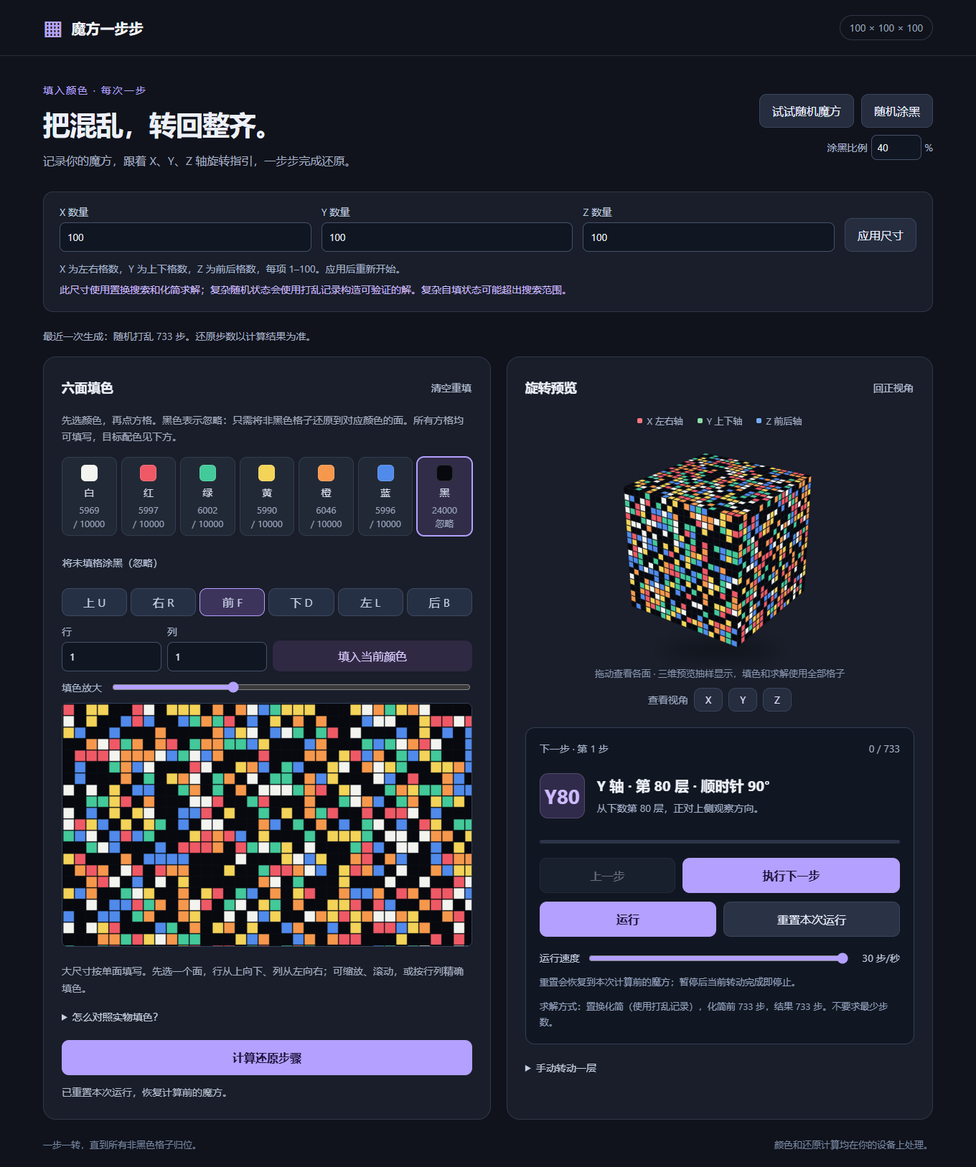
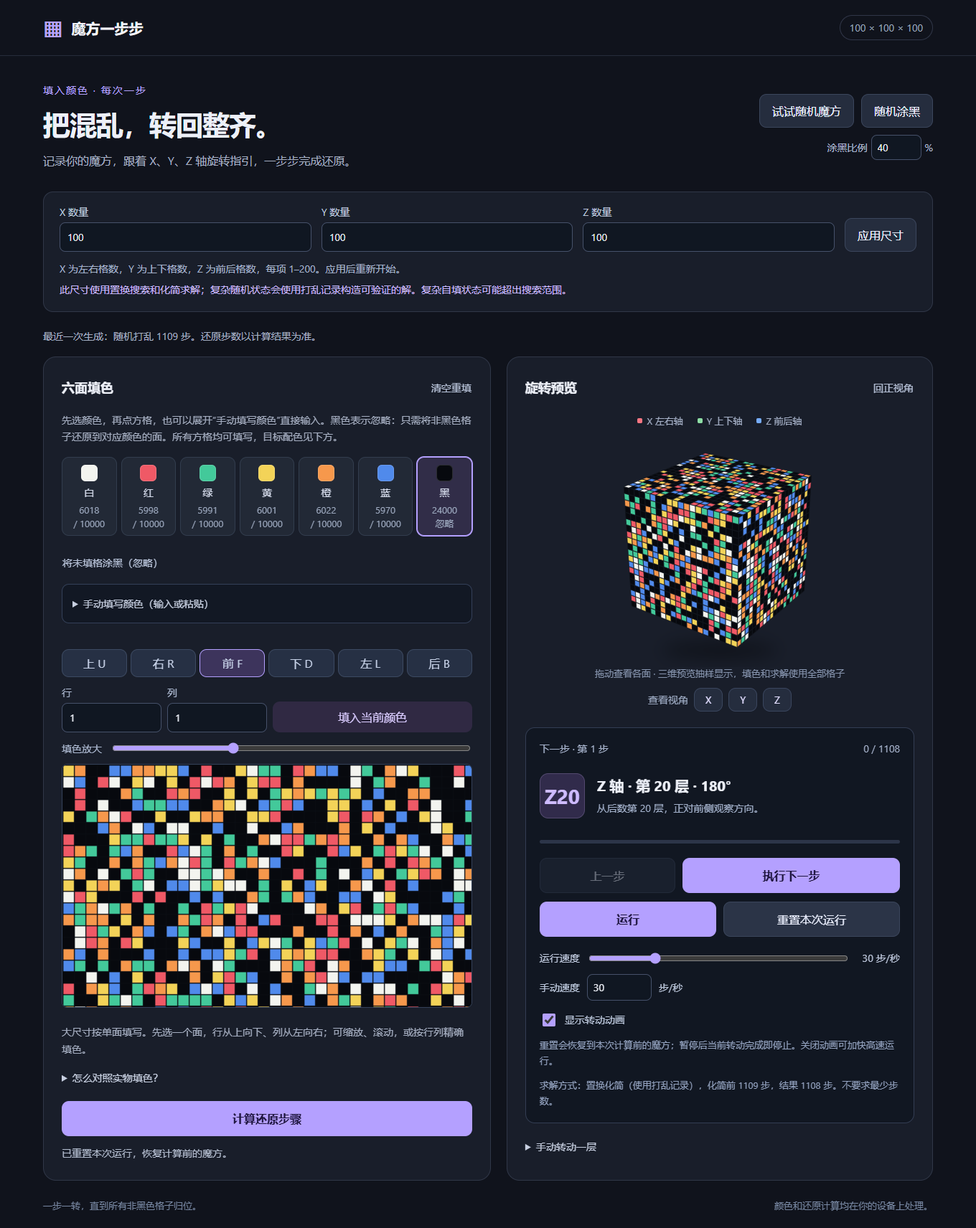
Update Site source

diff --git a/dist/app.js b/dist/app.js
@@ -10,6 +10,7 @@
   let view={x:-25,y:-35,z:0,scale:1};
   const $=id=>document.getElementById(id),cubeEl=$('cube'),net=$('net');
   let activeTurn=null;
+  let faceDraftDirty=false;
   $('animation-enabled').checked=!matchMedia('(prefers-reduced-motion: reduce)').matches;
   const status=(text,kind='')=>{$('status').textContent=text;$('status').className='status '+kind;};
   const faceColor=face=>centers[faces.indexOf(face)];
@@ -23,9 +24,9 @@
       if(v.centers?.length===6&&new Set(v.centers).size===6&&v.centers.every(c=>colors[c]&&c!=='k')&&v.stickers?.length===candidate.cells.length&&v.stickers.every(c=>c===null||colors[c])&&candidate.cells.every((c,i)=>!c.locked||v.stickers[i]===v.centers[faces.indexOf(c.face)])){
         model=candidate;centers=v.centers;stickers=v.stickers;history=null;
         if(Array.isArray(v.history)&&model.knownSolution(encoded(),v.history)!==null)history=v.history;
-        if(Number.isInteger(v.scrambleCount)&&v.scrambleCount>=0&&v.scrambleCount<=2000)scrambleCount=v.scrambleCount;
+        if(Number.isInteger(v.scrambleCount)&&v.scrambleCount>=0&&v.scrambleCount<=10000)scrambleCount=v.scrambleCount;
         if(Number.isInteger(v.blackPercent)&&v.blackPercent>=0&&v.blackPercent<=100)$('black-percent').value=v.blackPercent;
-        if(Number.isFinite(v.speed)&&v.speed>=.5&&v.speed<=30)$('run-speed').value=v.speed;
+        if(Number.isFinite(v.speed)&&v.speed>=.5&&v.speed<=120)$('run-speed').value=v.speed;
         if(typeof v.animationEnabled==='boolean')$('animation-enabled').checked=v.animationEnabled;
       }
     }
@@ -38,7 +39,7 @@
     const m=model.normalize(move),last=history[history.length-1];
     if(last&&last.axis===m.axis&&last.layer===m.layer){const turns=(last.turns+m.turns+8)%4;history.pop();if(turns)history.push({...m,turns:turns===3?-1:turns});}
     else history.push(m);
-    if(history.length>2000)history=null;
+    if(history.length>10000)history=null;
   }
   function renderPalette(){
     $('palette').replaceChildren();
@@ -93,13 +94,15 @@
     const complete=hasPlan&&cursor===moves.length;
     $('step-label').textContent=hasPlan?(complete?'还原完成':`下一步 · 第 ${cursor+1} 步`):'等待计算';$('step-count').textContent=`${cursor} / ${moves.length}`;
     const info=hasPlan&&!complete?moveInfo(moves[cursor]):null;$('move-token').textContent=complete?'✓':info?.token||'—';
+    $('move-token').style.fontSize=(info?.token?.length||0)>=4?'20px':'28px';
     $('instruction-title').textContent=info?.title||(complete?(stickers.includes('k')?'非黑色格子已归位':'六面已经归位'):'准备好你的魔方');
     $('instruction-detail').textContent=info?.detail||(complete?(stickers.includes('k')?'黑色格子不参与完成判断。你可以返回上一步复习。':'已完成全部步骤。你可以返回上一步复习。'):'填写六面颜色后，点击“计算还原步骤”。');
     const percent=hasPlan?(moves.length?cursor/moves.length*100:100):0;$('progress-fill').style.width=percent+'%';document.querySelector('.progress').setAttribute('aria-valuenow',String(Math.round(percent)));
     $('prev').disabled=!hasPlan||cursor===0||busy||animating||playing;$('next').disabled=!hasPlan||complete||busy||animating||playing;$('next').textContent=complete?'已完成还原':animating?'正在转动…':'执行下一步';
     $('run').textContent=playing?'暂停':'运行';$('run').disabled=busy||!hasPlan||complete||(!playing&&animating);$('reset-run').disabled=!planStart||busy;
     $('speed-value').textContent=$('run-speed').value+' 步/秒';
-    for(const id of ['solve','demo','random-black','black-percent','clear','mask-empty','apply-size','size-x','size-y','size-z','manual-apply','manual-axis','manual-layer','manual-turn'])$(id).disabled=busy||animating||playing;
+    if(document.activeElement!==$('run-speed-number'))$('run-speed-number').value=$('run-speed').value;
+    for(const id of ['solve','demo','random-black','black-percent','clear','mask-empty','apply-size','size-x','size-y','size-z','manual-apply','manual-axis','manual-layer','manual-turn','input-face','face-input','read-face','apply-face'])$(id).disabled=busy||animating||playing;
     $('solve').textContent=busy?'正在计算…':'计算还原步骤';document.querySelectorAll('#centers select').forEach(el=>el.disabled=busy||animating||playing);
   }
   function renderAll(){renderPalette();renderNet();renderCube();updateSteps();save();}
@@ -122,8 +125,26 @@
     $('solver-scope').textContent=model.classic||model.pocket?'二阶、三阶支持任意合法填色求解。':'此尺寸使用置换搜索和化简求解；复杂随机状态会使用打乱记录构造可验证的解。复杂自填状态可能超出搜索范围。';
     $('preview-hint').textContent=isLarge()?'拖动查看各面 · 三维预览抽样显示，填色和求解使用全部格子':'拖动查看各面 · 滚轮缩放';
     document.querySelector('.orientation').textContent=isLarge()?'大尺寸按单面填写。先选一个面，行从上向下、列从左向右；可缩放、滚动，或按行列精确填色。':'展开方向：前面居中，上、下分别在前面的上方和下方；背面在右面右侧。按展开图方向填写。';
-    $('paint-hint').textContent='先选颜色，再点方格。黑色表示忽略：只需将非黑色格子还原到对应颜色的面。'+(model.classic?'中心格固定。':'所有方格均可填写，目标配色见下方。');renderManual();
+    $('paint-hint').textContent='先选颜色，再点方格，也可以展开“手动填写颜色”直接输入。黑色表示忽略：只需将非黑色格子还原到对应颜色的面。'+(model.classic?'中心格固定。':'所有方格均可填写，目标配色见下方。');renderManual();readFace();
   }
+  function readFace(){
+    const face=$('input-face').value,[rows,cols]=model.shapes[face],offset=model.offsets[face];
+    $('face-input-shape').textContent=`${names[face]}面：${rows} 行 × ${cols} 列，共 ${rows*cols} 格。`;
+    $('face-input').value=ColorInput.formatFace(stickers.slice(offset,offset+rows*cols),cols);$('face-input-status').textContent='';faceDraftDirty=false;
+  }
+  $('input-face').onchange=readFace;$('read-face').onclick=readFace;
+  $('face-input').oninput=()=>faceDraftDirty=true;
+  $('manual-colors').ontoggle=()=>{if($('manual-colors').open&&!faceDraftDirty)readFace();};
+  $('apply-face').onclick=()=>{
+    const face=$('input-face').value,[rows,cols]=model.shapes[face],offset=model.offsets[face];
+    let entered;try{
+      entered=ColorInput.parseFace($('face-input').value,rows*cols);
+      if(model.classic&&entered[4]!==faceColor(face))throw Error(`${names[face]}面中心必须是${colors[faceColor(face)].name}色。`);
+    }catch(error){$('face-input-status').textContent=error.message;$('face-input-status').className='error';return;}
+    for(let j=0;j<entered.length;j++)stickers[offset+j]=entered[j];
+    retainHistory();invalidate();faceDraftDirty=false;if(isLarge())largeView.face=face;renderAll();
+    $('face-input-status').textContent=`${names[face]}面已应用 ${entered.length} 格。`;$('face-input-status').className='success';status('手动颜色已应用，可以继续填写其他面或计算还原步骤。');
+  };
   $('apply-size').onclick=()=>{
     let next;try{next=new CuboidModel(['x','y','z'].map(a=>Number($('size-'+a).value)));}catch(e){status(e.message,'error');return;}
     model=next;history=[];scrambleCount=null;fromPattern(model.solved);invalidate();renderSize();renderAll();status(`已应用 ${model.dims.join(' × ')}，可以随机打乱或填写颜色。`);
@@ -131,7 +152,7 @@
   $('manual-axis').onchange=renderManual;
   function ensureWorker(){
     if(worker)return;
-    worker=new Worker('solver-worker.js?v=run1');worker.onmessage=({data})=>{
+    worker=new Worker('solver-worker.js?v=expand1');worker.onmessage=({data})=>{
       if(data.id!==job)return;if(data.kind==='progress'){status(data.message);return;}if(data.kind==='error'){workerError(data.message);return;}
       if(data.kind==='scramble'){
         fromPattern(data.state);history=data.moves;scrambleCount=data.moves.length;finishSolve();renderAll();status(`本次随机打乱 ${scrambleCount} 步。可以涂黑后计算还原步骤。`);return;
@@ -207,11 +228,28 @@
     if(playing){pauseRun();status('已暂停，当前转动完成后停止。');return;}
     if(busy||animating||!hasPlan||cursor>=moves.length)return;
     playing=true;const epoch=++playEpoch;renderAll();status('正在连续运行，可随时暂停或调整速度。');
-    while(playing&&epoch===playEpoch&&cursor<moves.length){const start=performance.now();await stepForward();if(playing&&epoch===playEpoch)await new Promise(resolve=>setTimeout(resolve,Math.max(0,1000/Number($('run-speed').value)-(performance.now()-start))));}
+    let nextStepAt=performance.now();
+    while(playing&&epoch===playEpoch&&cursor<moves.length){
+      const now=performance.now(),interval=1000/Number($('run-speed').value);
+      if(now<nextStepAt){await new Promise(resolve=>setTimeout(resolve,Math.min(16,nextStepAt-now)));continue;}
+      if($('animation-enabled').checked){await stepForward();nextStepAt=now+interval;}
+      else{
+        const count=Math.min(12,moves.length-cursor,Math.floor((now-nextStepAt)/interval)+1);let state=encoded();
+        for(let n=0;n<count;n++){const move=moves[cursor++];state=model.apply(state,move);appendHistory(move);}
+        fromPattern(state);nextStepAt+=count*interval;if(nextStepAt<now-250)nextStepAt=now-250;
+        if(cursor===moves.length){playing=false;playEpoch++;status(stickers.includes('k')?'还原完成！所有非黑色格子都已归位，黑色格子忽略。':'还原完成！六个面都已同色。','success');}
+        renderAll();await new Promise(resolve=>setTimeout(resolve,0));
+      }
+    }
     if(epoch===playEpoch){playing=false;renderAll();}
   };
   $('reset-run').onclick=()=>{if(!planStart)return;pauseRun();if(animating){resetPending=true;status('当前转动完成后重置本次运行。');}else restoreRun();};
-  $('run-speed').oninput=()=>{$('speed-value').textContent=$('run-speed').value+' 步/秒';save();};
+  $('run-speed').oninput=()=>{$('speed-value').textContent=$('run-speed').value+' 步/秒';$('run-speed-number').value=$('run-speed').value;save();};
+  $('run-speed-number').onchange=()=>{
+    const value=Number($('run-speed-number').value);
+    if(!Number.isFinite(value)||value<.5||value>120){$('run-speed-number').value=$('run-speed').value;status('速度必须是 0.5 到 120 步/秒。','error');return;}
+    $('run-speed').value=Math.round(value*2)/2;$('run-speed').dispatchEvent(new Event('input'));
+  };
   $('animation-enabled').onchange=save;
   $('manual-apply').onclick=async()=>{
     try{model.classic?validatePattern(encoded(),Cube):model.validate(encoded());}catch(e){status(e.message,'error');return;}

diff --git a/dist/index.html b/dist/index.html
@@ -6,18 +6,19 @@
   <meta name="theme-color" content="#10131c">
   <meta name="description" content="设置 X、Y、Z 方向格数，随机魔方和随机涂黑，跟随每一步旋转还原非黑色格子。">
   <title>魔方一步步 · 多尺寸魔方</title>
-  <link rel="stylesheet" href="style.css?v=motion1">
+  <link rel="stylesheet" href="style.css?v=expand1">
   <script src="vendor/cube.js" defer></script>
   <script src="core.js?v=black1" defer></script>
-  <script src="cuboid.js?v=run1" defer></script>
+  <script src="cuboid.js?v=expand1" defer></script>
   <script src="large-view.js?v=motion1" defer></script>
-  <script src="app.js?v=motion1" defer></script>
+  <script src="color-input.js?v=expand1" defer></script>
+  <script src="app.js?v=expand1" defer></script>
 </head>
 <body>
   <header class="topbar"><a class="brand" href="./"><span class="brand-mark">▦</span>魔方一步步</a><span id="size-tag" class="tag">3 × 3 × 3</span></header>
   <main>
     <section class="intro"><div><p class="eyebrow">填入颜色 · 每次一步</p><h1>把混乱，转回整齐。</h1><p class="subtitle">记录你的魔方，跟着 X、Y、Z 轴旋转指引，一步步完成还原。</p></div><div class="random-actions"><button id="demo" class="secondary">试试随机魔方</button><button id="random-black" class="secondary">随机涂黑</button><label class="black-ratio">涂黑比例 <input id="black-percent" type="number" min="0" max="100" step="1" value="40" aria-label="随机涂黑百分比"> %</label></div></section>
-    <section class="size-panel" aria-label="魔方尺寸设置"><div class="size-fields"><label>X 数量<input id="size-x" type="number" min="1" max="100" step="1" value="3"></label><label>Y 数量<input id="size-y" type="number" min="1" max="100" step="1" value="3"></label><label>Z 数量<input id="size-z" type="number" min="1" max="100" step="1" value="3"></label><button id="apply-size" class="secondary">应用尺寸</button></div><p id="size-hint">X 为左右格数，Y 为上下格数，Z 为前后格数，每项 1–100。应用后重新开始。</p><p id="solver-scope">三阶支持任意合法填色求解。</p></section>
+    <section class="size-panel" aria-label="魔方尺寸设置"><div class="size-fields"><label>X 数量<input id="size-x" type="number" min="1" max="200" step="1" value="3"></label><label>Y 数量<input id="size-y" type="number" min="1" max="200" step="1" value="3"></label><label>Z 数量<input id="size-z" type="number" min="1" max="200" step="1" value="3"></label><button id="apply-size" class="secondary">应用尺寸</button></div><p id="size-hint">X 为左右格数，Y 为上下格数，Z 为前后格数，每项 1–200。应用后重新开始。</p><p id="solver-scope">三阶支持任意合法填色求解。</p></section>
     <p id="scramble-info" class="hint" role="status">每次随机生成时，转法和打乱步数都会随机。</p>
     <div class="workspace">
       <section class="panel input-panel" aria-labelledby="input-title">
@@ -25,6 +26,7 @@
         <p id="paint-hint" class="hint">先选颜色，再点方格。黑色表示忽略：只需将非黑色格子还原到对应颜色的面。三阶中心格固定。</p>
         <div id="palette" class="palette" role="group" aria-label="选择画笔颜色"></div>
         <button id="mask-empty" class="text-button">将未填格涂黑（忽略）</button>
+        <details id="manual-colors" class="manual-colors"><summary>手动填写颜色（输入或粘贴）</summary><p>选一个面，按从上到下、从左到右填写。可用中文颜色，或 W 白、R 红、G 绿、Y 黄、O 橙、B 蓝、K 黑；空格和换行都可以。W9 表示连续 9 个白格，K9 表示 9 个忽略格，? 表示未填。</p><label>填写哪个面<select id="input-face" aria-label="手动填写的面"><option value="U">上 U</option><option value="R">右 R</option><option value="F" selected>前 F</option><option value="D">下 D</option><option value="L">左 L</option><option value="B">后 B</option></select></label><p id="face-input-shape" class="hint"></p><textarea id="face-input" rows="6" maxlength="500000" spellcheck="false" aria-label="手动填写面颜色" placeholder="例如：GGG 换行 GGG 换行 GGG，也可填写 G9"></textarea><div class="face-input-buttons"><button id="read-face" class="secondary">读取当前面</button><button id="apply-face" class="primary">应用到此面</button></div><p id="face-input-status" role="status" aria-live="polite"></p></details>
         <div class="net-scroll"><div id="net" class="net" aria-label="魔方六面展开图"></div></div>
         <p class="orientation">展开方向：前面居中，上、下分别在前面的上方和下方；背面在右面右侧。按展开图方向填写。</p>
         <details><summary>怎么对照实物填色？</summary><p>先选定上面 U 和前面 F，并保持这两个方向。左右面像书页一样向外展开，背面接在右面外侧。上面的下边、下面的上边都与前面相接。可拖动右侧模型核对各面的方向。</p><p>目标配色默认上白、下黄、前绿、后蓝、左橙、右红。可在下面调整。三阶中心格固定；其他尺寸以目标配色判断还原，所有方格均可填写。</p><div id="centers" class="centers"></div></details>
@@ -43,9 +45,10 @@
           <div class="progress" role="progressbar" aria-label="还原进度" aria-valuemin="0" aria-valuemax="100" aria-valuenow="0"><div id="progress-fill"></div></div>
           <div class="step-buttons"><button id="prev" class="secondary" disabled>上一步</button><button id="next" class="primary" disabled>执行下一步</button></div>
           <div class="run-buttons"><button id="run" class="primary" disabled>运行</button><button id="reset-run" class="secondary" disabled>重置本次运行</button></div>
-          <label class="speed-control">运行速度 <input id="run-speed" type="range" min="0.5" max="30" step="0.5" value="4" aria-label="运行速度，每秒步数"><output id="speed-value">4 步/秒</output></label>
+          <label class="speed-control">运行速度 <input id="run-speed" type="range" min="0.5" max="120" step="0.5" value="4" aria-label="运行速度，每秒步数"><output id="speed-value">4 步/秒</output></label>
+          <label class="speed-number-control">手动速度 <input id="run-speed-number" type="number" min="0.5" max="120" step="0.5" value="4" aria-label="手动运行速度">步/秒</label>
           <label class="animation-control"><input id="animation-enabled" type="checkbox" checked>显示转动动画</label>
-          <p class="run-help">重置会恢复到本次计算前的魔方；暂停后当前转动完成即停止。</p>
+          <p class="run-help">重置会恢复到本次计算前的魔方；暂停后当前转动完成即停止。关闭动画可加快高速运行。</p>
           <p id="solver-method" class="run-help" role="status"></p>
         </div>
         <details class="manual"><summary>手动转动一层</summary><p>每次转动后需要重新计算方案。非正方形截面仅允许 180°，以保持长方体尺寸。</p><div class="manual-controls"><label>轴<select id="manual-axis"><option>X</option><option>Y</option><option>Z</option></select></label><label>层<select id="manual-layer"><option value="1">正侧（右 / 上 / 前）</option><option value="-1">负侧（左 / 下 / 后）</option></select></label><label>方向<select id="manual-turn"><option value="">顺时针 90°</option><option value="'">逆时针 90°</option><option value="2">旋转 180°</option></select></label><button id="manual-apply" class="secondary">转动一层</button></div><p id="manual-hint">方向均为正对所转面的视角。X / Y / Z 视角按钮仅改变观看角度。</p></details>

diff --git a/dist/style.css b/dist/style.css
@@ -4,3 +4,5 @@
 .run-buttons{display:grid;grid-template-columns:1fr 1fr;gap:10px;margin-top:12px}.speed-control{display:grid;grid-template-columns:auto 1fr auto;align-items:center;gap:10px;margin-top:20px;color:#bfc9dd;font-size:14px}.speed-control input{width:100%;accent-color:#b4a0ff;min-width:0}.speed-control output{min-width:64px;text-align:right}.run-help{color:#93a2bf;font-size:13px;line-height:1.7;margin:12px 0 0}.large-net{width:100%}.face-tabs{display:grid;grid-template-columns:repeat(6,1fr);gap:5px;margin:12px 0}.face-tabs button{padding:8px 3px;color:#c7d2e8;background:#263044;border-color:#3c4a62}.face-tabs button[aria-pressed=true]{border-color:#b4a0ff;background:#3d345c}.large-fill-tools{display:grid;grid-template-columns:1fr 1fr 2fr;gap:8px;align-items:end;margin:12px 0}.large-fill-tools label,.fill-zoom{font-size:14px;color:#aebbd3}.large-fill-tools button{background:#302943;color:#d9cbff;padding:10px 5px;min-height:42px}.fill-zoom{display:flex;flex-direction:row;gap:12px;align-items:center;margin:12px 0}.fill-zoom input{flex:1;accent-color:#b4a0ff}.large-fill-scroll{height:340px;max-width:100%;overflow:auto;background:#0d111a;border:1px solid #344159;border-radius:8px}.large-fill-scroll canvas{display:block;cursor:crosshair;max-width:none}.large-net input{width:100%}@media(max-width:480px){.face-tabs{grid-template-columns:repeat(3,1fr)}.speed-control{grid-template-columns:auto 1fr}.speed-control output{grid-column:2}.run-buttons button{padding:12px 8px}}
 .paint-count.stack{display:flex;flex-direction:column;align-items:center;gap:2px}
 .animation-control{display:flex;flex-direction:row;gap:10px;align-items:center;margin-top:15px;font-size:14px;color:#bdc9dd}.animation-control input{accent-color:#b4a0ff;width:18px;height:18px}
+.manual-colors{margin:12px 0 18px;padding:14px;background:#121824;border:1px solid #344059;border-radius:10px}.manual-colors p{font-size:14px;line-height:1.8;color:#aab8d1}.manual-colors select{width:100%}.manual-colors textarea{box-sizing:border-box;width:100%;max-width:100%;resize:vertical;min-height:130px;padding:12px;border:1px solid #46516a;border-radius:8px;font-family:Consolas,monospace;font-size:16px;line-height:1.5;letter-spacing:1px;background:#0e1420;color:#e5edff;white-space:pre-wrap;overflow-wrap:anywhere}.manual-colors textarea:focus-visible{outline:3px solid #a8bdff;outline-offset:3px}.face-input-buttons{display:grid;grid-template-columns:1fr 1fr;gap:8px;margin-top:10px}.manual-colors #face-input-status.error{color:#ffaaaa}.manual-colors #face-input-status.success{color:#8bdfbe}.speed-number-control{display:flex;flex-direction:row;align-items:center;gap:10px;font-size:14px;color:#bdc9dd;margin-top:12px}.speed-number-control input{width:90px;padding:8px}
+.manual-colors textarea{white-space:pre;overflow-wrap:normal;overflow:auto}

diff --git a/dist/cuboid.js b/dist/cuboid.js
@@ -4,7 +4,7 @@
   function quarter(v,axis){const [x,y,z]=v;return axis==='X'?[x,z,-y]:axis==='Y'?[-z,y,x]:[y,-x,z];}
   class CuboidModel {
     constructor(dimensions=[3,3,3]){
-      if(!Array.isArray(dimensions)||dimensions.length!==3||dimensions.some(n=>!Number.isInteger(n)||n<1||n>100))throw Error('X、Y、Z 必须是 1 到 100 的整数。');
+      if(!Array.isArray(dimensions)||dimensions.length!==3||dimensions.some(n=>!Number.isInteger(n)||n<1||n>200))throw Error('X、Y、Z 必须是 1 到 200 的整数。');
       this.dims=[...dimensions];this.classic=dimensions.every(n=>n===3);this.pocket=dimensions.every(n=>n===2);
       const [X,Y,Z]=dimensions;this.shapes={U:[Z,X],R:[Y,Z],F:[Y,X],D:[Z,X],L:[Y,Z],B:[Y,X]};
       this.cells=[];this.offsets={};this.cache=new Map();this.sparseCache=new Map();
@@ -74,7 +74,7 @@
     }
     scramble(count,random=Math.random){
       if(count===undefined)count=this.randomScrambleLength(random);
-      if(!Number.isInteger(count)||count<0||count>2000)throw Error('打乱步数必须是 0 到 2000 的整数。');
+      if(!Number.isInteger(count)||count<0||count>10000)throw Error('打乱步数必须是 0 到 10000 的整数。');
       const possible=this.legalMoves(),moves=[];let state=this.solved,last='';
       for(let i=0;i<count;i++){
         const choices=possible.filter(m=>m.axis+':'+m.layer!==last),m=choices[Math.floor(random()*choices.length)];
@@ -83,7 +83,7 @@
       return {state,moves};
     }
     knownSolution(text,history){
-      if(!Array.isArray(history)||history.length>2000)return null;
+      if(!Array.isArray(history)||history.length>10000)return null;
       let known=this.solved;
       try{for(const move of history)known=this.apply(known,move);}catch{return null;}
       if([...text].some((c,i)=>c!=='*'&&c!==known[i]))return null;

diff --git a/dist/color-input.js b/dist/color-input.js
@@ -1,0 +1,23 @@
+(function(root){
+  const codes={W:'w',R:'r',G:'g',Y:'y',O:'o',B:'b',K:'k','白':'w','红':'r','绿':'g','黄':'y','橙':'o','蓝':'b','黑':'k','*':'k','?':null};
+  const output={w:'W',r:'R',g:'G',y:'Y',o:'O',b:'B',k:'K'};
+  function parseFace(text,expected){
+    const clean=text.toUpperCase().replace(/[\s,，;；|\/]/g,''),out=[];
+    if(!clean)throw Error('请填写该面的颜色。');
+    let i=0;
+    while(i<clean.length){
+      const code=clean[i++];if(!Object.hasOwn(codes,code))throw Error(`无法识别“${code}”。请使用 白红绿黄橙蓝黑 或 W/R/G/Y/O/B/K。`);
+      let digits='';while(i<clean.length&&/[0-9]/.test(clean[i]))digits+=clean[i++];
+      const count=digits?Number(digits):1;
+      if(!Number.isSafeInteger(count)||count<1||count>expected)throw Error(`重复数量必须是 1 到 ${expected} 的整数。`);
+      if(out.length+count>expected)throw Error(`这个面只需要 ${expected} 格，填写数量过多。`);
+      for(let n=0;n<count;n++)out.push(codes[code]);
+    }
+    if(out.length!==expected)throw Error(`这个面需要 ${expected} 格，目前填写了 ${out.length} 格。`);
+    return out;
+  }
+  function formatFace(stickers,cols){
+    const rows=[];for(let i=0;i<stickers.length;i+=cols)rows.push(stickers.slice(i,i+cols).map(c=>output[c]||'?').join(''));return rows.join('\n');
+  }
+  const api={parseFace,formatFace};if(typeof module!=='undefined')module.exports=api;else root.ColorInput=api;
+})(typeof self!=='undefined'?self:globalThis);

diff --git a/dist/solver-worker.js b/dist/solver-worker.js
@@ -1,5 +1,5 @@
 importScripts('vendor/cube.js', 'vendor/solve.js', 'core.js?v=black1');
-importScripts('cuboid.js?v=run1');
+importScripts('cuboid.js?v=expand1');
 let initialized=false;
 self.onmessage=event=>{
   const {text,id,dimensions=[3,3,3],history}=event.data;

diff --git a/README.md b/README.md
@@ -1,18 +1,22 @@
 # 魔方一步步
 
-多尺寸魔方填色和逐步还原工具。X、Y、Z 分别为左右、上下、前后方向格数，每项可填写 1–100，支持正方体和长方体。六面展开图和三维预览随尺寸变化。尺寸、填色、速度和随机打乱记录保存在当前浏览器。
+多尺寸魔方填色和逐步还原工具。X、Y、Z 分别为左右、上下、前后方向格数，每项可填写 1–200，支持正方体和长方体。六面展开图和三维预览随尺寸变化。尺寸、填色、速度和随机打乱记录保存在当前浏览器。
 
 “试试随机魔方”生成可还原状态；“随机涂黑”按指定百分比随机选取已填、可编辑的格子并涂黑。保留其他颜色和三阶固定中心，重复点击可能增加黑格。涂黑比例支持 0–100%。应用新尺寸会重新开始。
 
 随机打乱的长度也会随机：设最大边长为 n，长度在 max(12, 6n) 到 max(24, 12n) 之间随机取整数。七阶为 42–84 步，百阶为 600–1200 步。页面显示实际打乱长度并随当前状态保存。还原方案长度以验证结果为准，黑色目标可能提前完成；不保证最短。连续两次随机长度可能恰好相同。
 
+两百阶包含 240000 个表面格子，随机打乱 1200–2400 步；生成和已知打乱记录求解在后台执行。打乱及历史记录容量为 10000 步，覆盖新增尺寸范围。
+
 黑色是“忽略”标记：黑格随所在层一起转动，但不参与完成判断。只要其余非黑色格子都在对应中心颜色的面上，就完成还原。黑色格数不限，不能设为中心色。可用“将未填格涂黑”快速输入局部目标。
+
+“手动填写颜色（输入或粘贴）”可选择六面之一，按从上到下、从左到右的顺序直接输入。支持中文颜色，以及 W 白、R 红、G 绿、Y 黄、O 橙、B 蓝、K 黑；空格、换行和常见分隔符可混用。W9 代表连续 9 个白格，K40000 可一次填写两百阶的一整个黑色面，? 代表未填格。读取当前面会按实际行列格式输出。应用时先检查字符、数量和三阶中心，错误输入不会修改魔方。六面可分别填写，整体合法性由求解器检查。
 
 二阶、三阶支持任意合法填色求解，包括黑色忽略状态。三阶局部状态先寻找三步内的解；否则补出合法状态并求解。二阶将角块嵌入三阶角块模型求解。方案会在非黑色目标首次达成时结束，不保证最短。
 
 其他尺寸先按色块置换进行有下界剪枝的有限深度搜索，搜索直接基于当前非黑色状态。未找到简单解时，使用保存的打乱记录构造一个解，再用同轴不同层的交换律、同层转角模 4 合并、抵消以及重复颜色状态消除来化简，删除对当前颜色状态没有影响的转动。高阶转动只保存受影响色块的稀疏置换，避免为每一步复制完整置换表。每个返回方案都从当前状态正向执行验证。界面区分“置换搜索”和“置换化简（使用打乱记录）”，不承诺高阶复杂自填状态总能求解，也不承诺最短。
 
-“运行”连续逐步执行，可随时暂停。速度可设 0.5–30 步/秒，新速度从下一步生效；实际速度受设备性能影响。暂停时当前转动完成即停止。“重置本次运行”恢复本次求解前的完整填色、黑色位置和打乱记录，保留还原方案以便重播；转动中重置会在本步结束后恢复。重新填色或生成随机魔方会清除旧方案。
+“运行”连续逐步执行，可随时暂停。速度可设 0.5–120 步/秒，可通过滑块或手动数字输入调整，新速度从下一步生效。关闭动画时按时间累计执行步骤，合并重复绘制以提高速度，仍按顺序执行每条转动，手动“下一步”始终只执行一步；实际速度受设备性能影响。暂停时当前转动完成即停止。“重置本次运行”恢复本次求解前的完整填色、黑色位置和打乱记录，保留还原方案以便重播；转动中重置会在本步结束后恢复。重新填色或生成随机魔方会清除旧方案。
 
 “显示转动动画”控制单步、手动转动和连续运行的动画，设置会保存。默认遵循系统减少动态效果的偏好，也可以手动开启。大尺寸画布逐帧旋转指定层，按当前速度完成 90° 或 180° 转动；抽样格会在该层边界处拆分，确保百阶的细薄内层也能单独显示。调整视角、暂停、重置与动画可以同时使用；关闭动画从下一步生效。
 
@@ -31,3 +35,5 @@ X 为左右轴（右 R / 左 L），Y 为上下轴（上 U / 下 D），Z 为前
 验证：`node test.cjs`。`qa.cjs` 验证原有三阶、黑色和尺寸功能；`qa-run.cjs` 验证自动运行、暂停、速度、精确重置、无打乱记录的高阶置换搜索及百阶随机状态。浏览器脚本使用本机 Playwright 和 Chrome，其中运行时路径按当前环境配置。
 
 动画验证：`node test-animation.cjs` 核对全部轴、方向和各层的动画终点与精确置换，并检查百阶抽样边界；`qa-animation.cjs` 验证真实中间帧、调速、运行、转动中重置、开关保存和百阶内层动画。
+
+扩展验证：`node test-expanded.cjs` 验证颜色文本解析、非法输入、两百阶尺寸和超过 2000 步的历史；`qa-expanded.cjs` 验证六面手动导入、速度实测、高速暂停重置、两百阶随机状态和完整方案验证。
